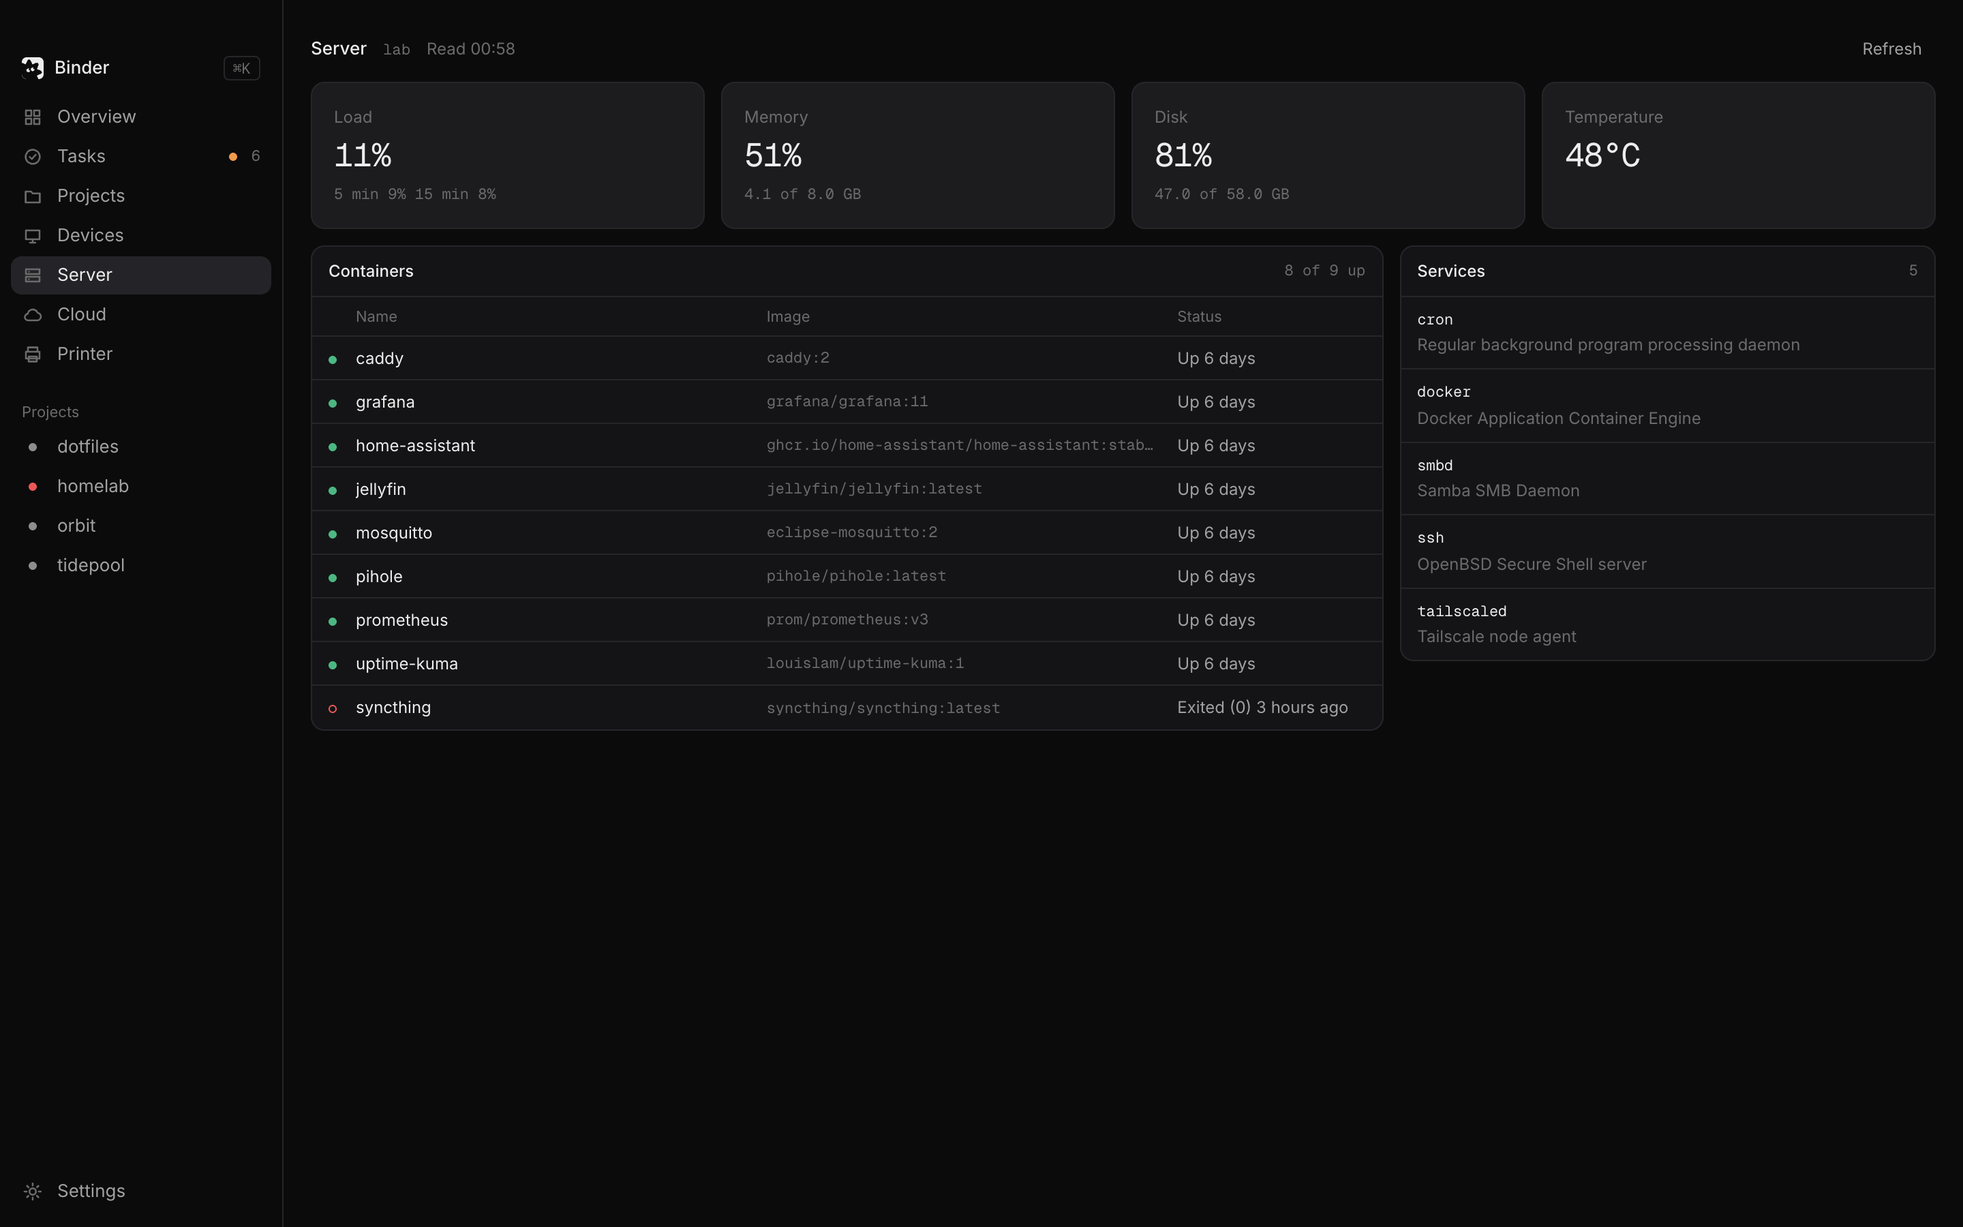
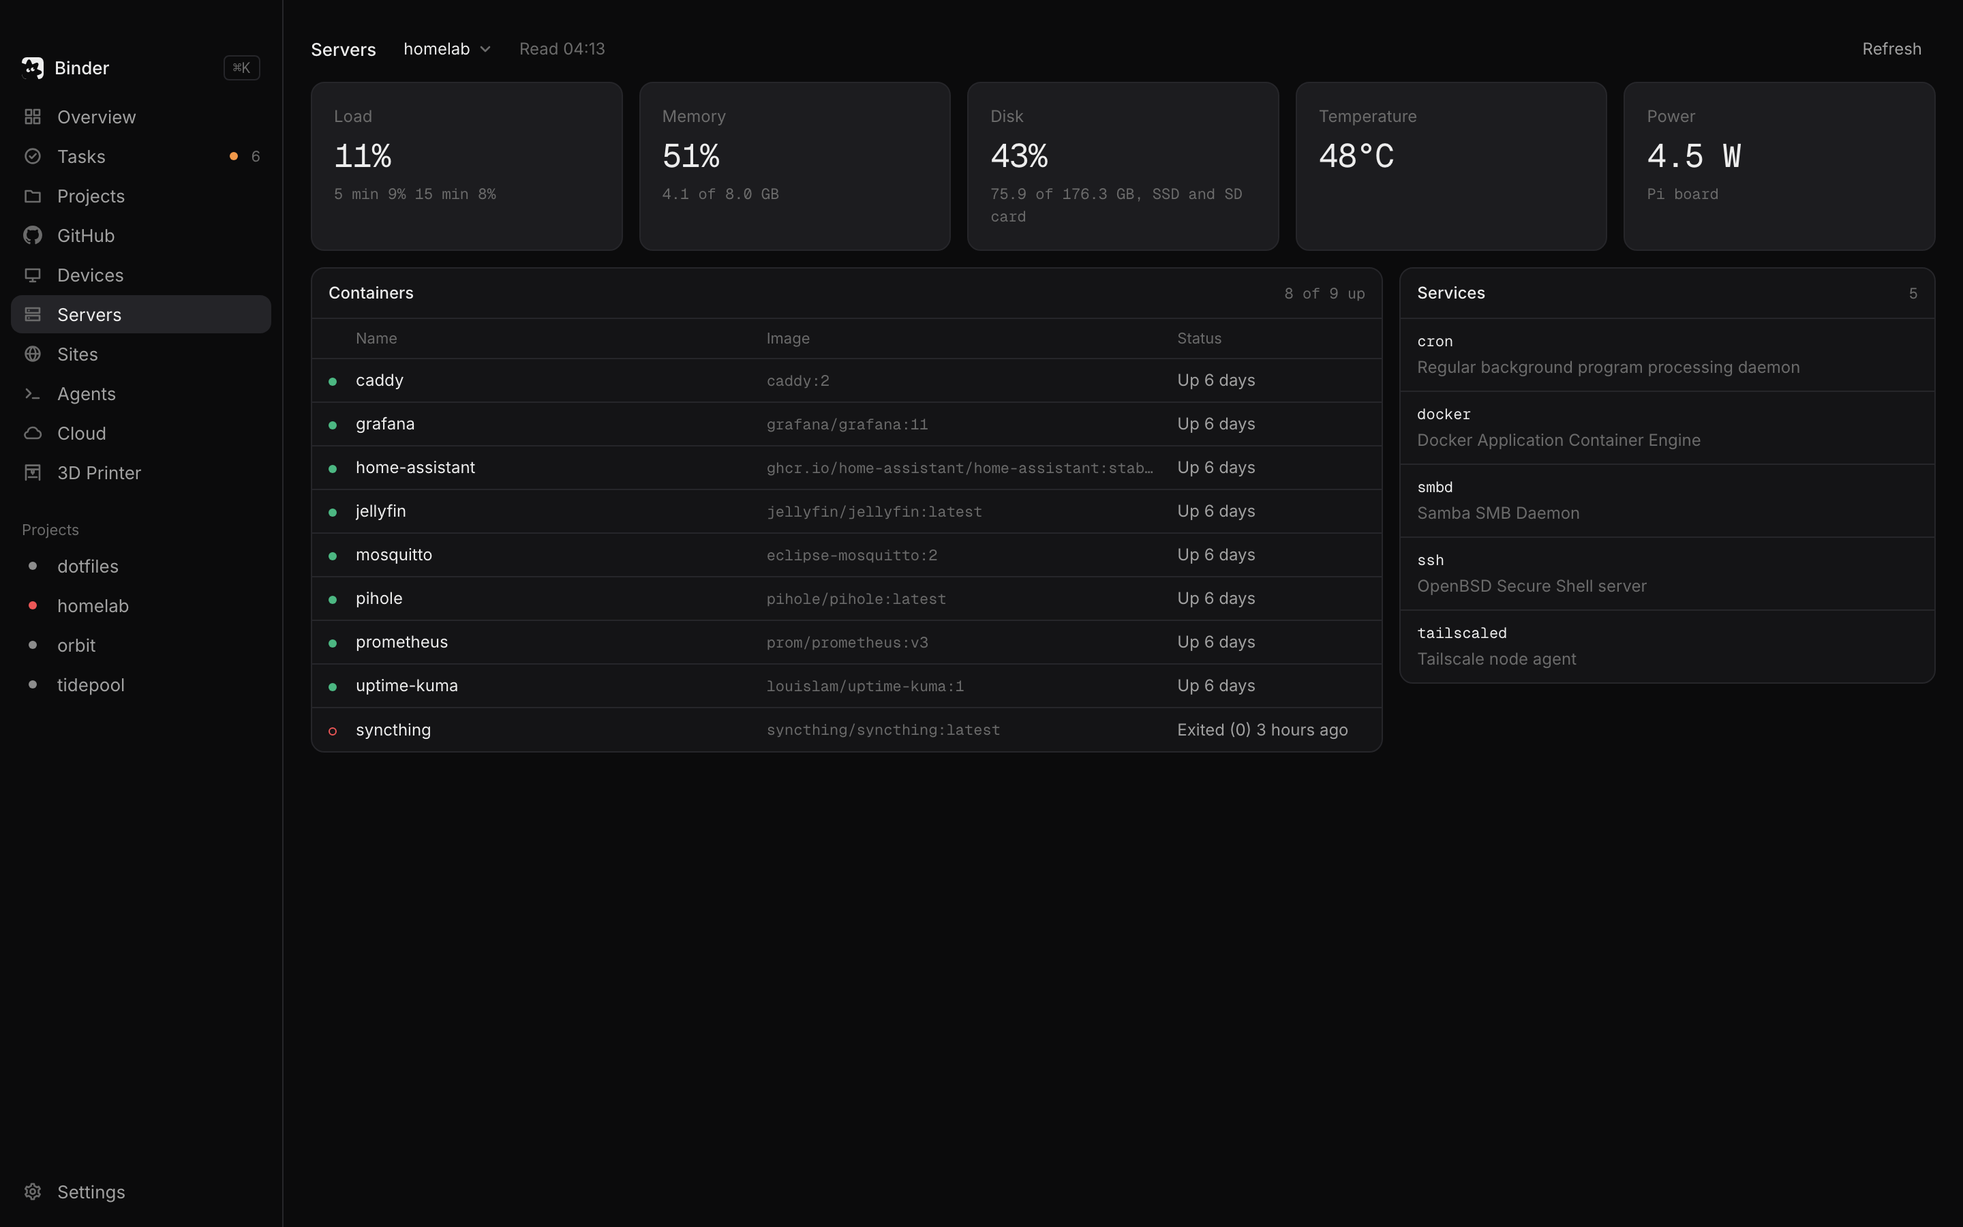
site: copy and screenshots for 3.9: nine screens, Agents, Sites, Devices with Tailscale, Servers

diff --git a/site/index.html b/site/index.html
@@ -4,7 +4,7 @@
 <meta charset="utf-8">
 <meta name="viewport" content="width=device-width, initial-scale=1">
 <title>Binder</title>
-<meta name="description" content="A desktop app for one developer's workshop: tasks for you and a Claude Code agent, your GitHub projects, the home server, a file manager over it and a 3D printer.">
+<meta name="description" content="A desktop app for one developer's workshop: tasks for you and a Claude Code agent, your GitHub projects and pull requests, your servers and the sites on them, agent terminals, your tailnet, a file manager over the server and a 3D printer.">
 <meta name="theme-color" content="#0b0b0c">
 <meta property="og:title" content="Binder">
 <meta property="og:description" content="Your whole workshop, in one quiet window.">
@@ -46,7 +46,7 @@ a:focus-visible{outline:1px solid #a1a1a1;outline-offset:3px;border-radius:8px}
 <section id="top" style="position: relative; max-width: 1200px; margin: 0 auto; padding: 72px 20px 0; display: flex; flex-direction: column; align-items: center; gap: 24px; text-align: center;">
 <a href="https://github.com/Kungie/binder/releases/tag/v3.9.0" style="display: inline-flex; align-items: center; gap: 8px; height: 28px; padding: 0 12px; border-radius: 999px; border: 1px solid #26262a; background: #141416; font-size: 12px; color: #a1a1a1;"><span style="width: 6px; height: 6px; border-radius: 999px; background: #8b7cf6; display: inline-block;"></span>3.9 is out: switch servers from the Servers header</a>
 <h1 class="hero-h" style="margin: 0; max-width: 880px; font-size: 76px; line-height: 76px; font-weight: 500; letter-spacing: -0.035em; text-wrap: balance;">Your whole workshop, in one quiet window.</h1>
-<p style="margin: 0; max-width: 600px; font-size: 17px; line-height: 26px; color: #a1a1a1; text-wrap: balance;">Tasks for you and a Claude Code agent, every GitHub repo, the home server, a file manager over it and the 3D printer. Mostly black and white, keyboard first, built for one person.</p>
+<p style="margin: 0; max-width: 600px; font-size: 17px; line-height: 26px; color: #a1a1a1; text-wrap: balance;">Tasks for you and a Claude Code agent, your GitHub repos and pull requests, your servers and the sites on them, agent terminals, your tailnet, a file manager and the 3D printer. Mostly black and white, keyboard first, built for one person.</p>
 <div style="display: flex; gap: 10px; flex-wrap: wrap; justify-content: center; padding-top: 8px;">
 <a href="https://github.com/Kungie/binder/releases/latest/download/Binder.dmg" style="display: inline-flex; align-items: center; gap: 8px; height: 44px; padding: 0 18px; border-radius: 10px; background: #ededed; color: #0b0b0c; font-weight: 500; font-size: 14px;"><svg width="14" height="14" viewBox="0 0 14 14" fill="none" stroke="currentColor" stroke-width="1.5" stroke-linecap="round" stroke-linejoin="round" aria-hidden="true"><path d="M7 1.5v8M3.5 6.5L7 10l3.5-3.5M2 12.5h10"></path></svg>Download for Mac</a>
 <a href="https://github.com/Kungie/binder" style="display: inline-flex; align-items: center; gap: 8px; height: 44px; padding: 0 18px; border-radius: 10px; border: 1px solid #34343a; color: #ededed; font-size: 14px;">View on GitHub</a>
@@ -56,7 +56,7 @@ a:focus-visible{outline:1px solid #a1a1a1;outline-offset:3px;border-radius:8px}
 <div style="position: relative; width: 100%; margin-top: 48px;">
 <img src="assets/mascot.svg" alt="" aria-hidden="true" class="hide-sm" style="position: absolute; left: -150px; bottom: -2px; width: 300px; z-index: 0;">
 <figure style="position: relative; z-index: 1; margin: 0; border-radius: 14px; border: 1px solid #34343a; background: #141416; padding: 6px; box-shadow: 0 40px 120px rgba(0,0,0,0.7);">
-<img width="2000" height="1250" src="assets/shots/overview.png" alt="Binder's Overview: today's done lines, open tasks, the server, Cloud and the printer" style="display: block; width: 100%; height: auto; border-radius: 10px;">
+<img width="2000" height="1250" src="assets/shots/overview.png" alt="Binder's Overview: what happened since you last looked, today's done lines, open tasks, the server, Cloud and the printer, in widgets you arrange" style="display: block; width: 100%; height: auto; border-radius: 10px;">
 </figure>
 </div>
 </section>
@@ -74,29 +74,57 @@ a:focus-visible{outline:1px solid #a1a1a1;outline-offset:3px;border-radius:8px}
 <section id="features" style="max-width: 1200px; margin: 0 auto; padding: 140px 20px 0; display: flex; flex-direction: column; gap: 40px;">
 <div style="display: flex; flex-direction: column; gap: 12px; max-width: 640px;">
 <p style="margin: 0; font-family: 'Geist Mono', ui-monospace, monospace; font-size: 12px; color: #8a8a8a;">What it does</p>
-<h2 class="big-h" style="margin: 0; font-size: 44px; line-height: 48px; font-weight: 500; letter-spacing: -0.03em; text-wrap: balance;">Six screens for the things you keep checking.</h2>
+<h2 class="big-h" style="margin: 0; font-size: 44px; line-height: 48px; font-weight: 500; letter-spacing: -0.03em; text-wrap: balance;">Nine screens for the things you keep checking.</h2>
 </div>
 <div style="display: grid; grid-template-columns: repeat(auto-fit, minmax(300px, 1fr)); gap: 12px;">
 
 <article style="display: flex; flex-direction: column; gap: 10px; padding: 20px; border-radius: 10px; border: 1px solid #26262a; background: #141416;">
 <svg width="16" height="16" viewBox="0 0 16 16" fill="none" stroke="#ededed" stroke-width="1.3" stroke-linecap="round" stroke-linejoin="round" aria-hidden="true"><circle cx="8" cy="8" r="6"></circle><path d="M5.5 8.2l1.7 1.7 3.3-3.6"></path></svg>
 <h3 style="margin: 0; font-size: 15px; font-weight: 500;">Tasks</h3>
-<p style="margin: 0; font-size: 13px; line-height: 20px; color: #a1a1a1;">A board of soft cards or a keyboard-first table. Claude Code on your server picks up its tasks by itself, and night tasks run there from 03:00.</p>
-<p style="margin: 0; font-family: 'Geist Mono', ui-monospace, monospace; font-size: 11px; color: #8a8a8a;">Tonight · runs at 03:00</p>
+<p style="margin: 0; font-size: 13px; line-height: 20px; color: #a1a1a1;">A board of soft cards or a keyboard-first table, with repeats, reminders and quick add from anywhere. Claude Code on your server picks up its tasks by itself, and night tasks run from 03:00.</p>
+<p style="margin: 0; font-family: 'Geist Mono', ui-monospace, monospace; font-size: 11px; color: #8a8a8a;">⌃⌥N · tomorrow 9am #homelab</p>
 </article>
 
 <article style="display: flex; flex-direction: column; gap: 10px; padding: 20px; border-radius: 10px; border: 1px solid #26262a; background: #141416;">
 <svg width="16" height="16" viewBox="0 0 16 16" fill="none" stroke="#ededed" stroke-width="1.3" stroke-linecap="round" stroke-linejoin="round" aria-hidden="true"><path d="M2 4.5h4l1.5 1.5H14v6.5H2z"></path></svg>
 <h3 style="margin: 0; font-size: 15px; font-weight: 500;">Projects</h3>
-<p style="margin: 0; font-size: 13px; line-height: 20px; color: #a1a1a1;">Every GitHub repo arrives on its own. Your edits stay, nothing is deleted, and each project keeps a note in Obsidian.</p>
+<p style="margin: 0; font-size: 13px; line-height: 20px; color: #a1a1a1;">Every GitHub repo arrives on its own with its open pull requests and CI. Your edits stay, nothing is deleted, and each project keeps a note in Obsidian.</p>
 <p style="margin: 0; font-family: 'Geist Mono', ui-monospace, monospace; font-size: 11px; color: #8a8a8a;">gh repo list</p>
 </article>
 
 <article style="display: flex; flex-direction: column; gap: 10px; padding: 20px; border-radius: 10px; border: 1px solid #26262a; background: #141416;">
-<svg width="16" height="16" viewBox="0 0 16 16" fill="none" stroke="#ededed" stroke-width="1.3" stroke-linecap="round" stroke-linejoin="round" aria-hidden="true"><path d="M8 2v12M2 8h12M3.8 3.8l8.4 8.4M12.2 3.8l-8.4 8.4"></path></svg>
-<h3 style="margin: 0; font-size: 15px; font-weight: 500;">Claude Code</h3>
-<p style="margin: 0; font-size: 13px; line-height: 20px; color: #a1a1a1;">Hooks write the decisions each session makes to the project's daily file. Agents keeps Claude Code and a local model open on your server.</p>
-<p style="margin: 0; font-family: 'Geist Mono', ui-monospace, monospace; font-size: 11px; color: #8a8a8a;">Daily/2026-11-14.md</p>
+<svg width="16" height="16" viewBox="0 0 16 16" fill="none" stroke="#ededed" stroke-width="1.3" stroke-linecap="round" stroke-linejoin="round" aria-hidden="true"><circle cx="4.5" cy="4" r="1.5"></circle><circle cx="4.5" cy="12" r="1.5"></circle><circle cx="11.5" cy="12" r="1.5"></circle><path d="M4.5 5.5v5M11.5 10.5V7.5a2 2 0 0 0-2-2H7"></path></svg>
+<h3 style="margin: 0; font-size: 15px; font-weight: 500;">GitHub</h3>
+<p style="margin: 0; font-size: 13px; line-height: 20px; color: #a1a1a1;">Pull requests and issues across your projects. Review, merge and comment, or hand one to the agent to review, fix or work on.</p>
+<p style="margin: 0; font-family: 'Geist Mono', ui-monospace, monospace; font-size: 11px; color: #8a8a8a;">Review with the agent</p>
+</article>
+
+<article style="display: flex; flex-direction: column; gap: 10px; padding: 20px; border-radius: 10px; border: 1px solid #26262a; background: #141416;">
+<svg width="16" height="16" viewBox="0 0 16 16" fill="none" stroke="#ededed" stroke-width="1.3" stroke-linecap="round" stroke-linejoin="round" aria-hidden="true"><path d="M3 4.5l3 3.5-3 3.5M8 12h5"></path></svg>
+<h3 style="margin: 0; font-size: 15px; font-weight: 500;">Agents</h3>
+<p style="margin: 0; font-size: 13px; line-height: 20px; color: #a1a1a1;">Claude Code and a local model in terminals on your server, one session per project, like a small herdr. Each shows whether it works, waits for you or stopped, and notifies you when it does.</p>
+<p style="margin: 0; font-family: 'Geist Mono', ui-monospace, monospace; font-size: 11px; color: #8a8a8a;">5 h 34% · week 61%</p>
+</article>
+
+<article style="display: flex; flex-direction: column; gap: 10px; padding: 20px; border-radius: 10px; border: 1px solid #26262a; background: #141416;">
+<svg width="16" height="16" viewBox="0 0 16 16" fill="none" stroke="#ededed" stroke-width="1.3" stroke-linecap="round" stroke-linejoin="round" aria-hidden="true"><rect x="2.5" y="3" width="11" height="4" rx="1"></rect><rect x="2.5" y="9" width="11" height="4" rx="1"></rect><path d="M5 5h.01M5 11h.01"></path></svg>
+<h3 style="margin: 0; font-size: 15px; font-weight: 500;">Servers</h3>
+<p style="margin: 0; font-size: 13px; line-height: 20px; color: #a1a1a1;">Containers, services, load, memory, disks, temperature and power over SSH, with logs and restarts. Switch between servers from the header, and get a notification when a container stops.</p>
+<p style="margin: 0; font-family: 'Geist Mono', ui-monospace, monospace; font-size: 11px; color: #8a8a8a;">web stopped · Exited (137)</p>
+</article>
+
+<article style="display: flex; flex-direction: column; gap: 10px; padding: 20px; border-radius: 10px; border: 1px solid #26262a; background: #141416;">
+<svg width="16" height="16" viewBox="0 0 16 16" fill="none" stroke="#ededed" stroke-width="1.3" stroke-linecap="round" stroke-linejoin="round" aria-hidden="true"><circle cx="8" cy="8" r="6"></circle><path d="M2 8h12M8 2c1.8 1.7 2.7 3.7 2.7 6S9.8 12.3 8 14M8 2C6.2 3.7 5.3 5.7 5.3 8s.9 4.3 2.7 6"></path></svg>
+<h3 style="margin: 0; font-size: 15px; font-weight: 500;">Sites</h3>
+<p style="margin: 0; font-size: 13px; line-height: 20px; color: #a1a1a1;">Every site on your server found by itself, with a still preview, its address and a week of uptime. You hear about it when one goes down.</p>
+<p style="margin: 0; font-family: 'Geist Mono', ui-monospace, monospace; font-size: 11px; color: #8a8a8a;">28 bars · 99.6% up</p>
+</article>
+
+<article style="display: flex; flex-direction: column; gap: 10px; padding: 20px; border-radius: 10px; border: 1px solid #26262a; background: #141416;">
+<svg width="16" height="16" viewBox="0 0 16 16" fill="none" stroke="#ededed" stroke-width="1.3" stroke-linecap="round" stroke-linejoin="round" aria-hidden="true"><rect x="2" y="3" width="12" height="8" rx="1"></rect><path d="M6 13.5h4M8 11v2.5"></path></svg>
+<h3 style="margin: 0; font-size: 15px; font-weight: 500;">Devices</h3>
+<p style="margin: 0; font-size: 13px; line-height: 20px; color: #a1a1a1;">Your tailnet from the Tailscale app: who is online, the route and ping, keys about to expire, Taildrop and an SSH shell. Plus any machine you add yourself.</p>
+<p style="margin: 0; font-family: 'Geist Mono', ui-monospace, monospace; font-size: 11px; color: #8a8a8a;">31 ms · DERP fra</p>
 </article>
 
 <article style="display: flex; flex-direction: column; gap: 10px; padding: 20px; border-radius: 10px; border: 1px solid #26262a; background: #141416;">
@@ -107,16 +135,9 @@ a:focus-visible{outline:1px solid #a1a1a1;outline-offset:3px;border-radius:8px}
 </article>
 
 <article style="display: flex; flex-direction: column; gap: 10px; padding: 20px; border-radius: 10px; border: 1px solid #26262a; background: #141416;">
-<svg width="16" height="16" viewBox="0 0 16 16" fill="none" stroke="#ededed" stroke-width="1.3" stroke-linecap="round" stroke-linejoin="round" aria-hidden="true"><rect x="2.5" y="3" width="11" height="4" rx="1"></rect><rect x="2.5" y="9" width="11" height="4" rx="1"></rect><path d="M5 5h.01M5 11h.01"></path></svg>
-<h3 style="margin: 0; font-size: 15px; font-weight: 500;">Server</h3>
-<p style="margin: 0; font-size: 13px; line-height: 20px; color: #a1a1a1;">Containers, services, load, memory, both disks and temperature over SSH. A Mac notification when a container stops or turns unhealthy.</p>
-<p style="margin: 0; font-family: 'Geist Mono', ui-monospace, monospace; font-size: 11px; color: #8a8a8a;">web stopped · Exited (137)</p>
-</article>
-
-<article style="display: flex; flex-direction: column; gap: 10px; padding: 20px; border-radius: 10px; border: 1px solid #26262a; background: #141416;">
 <svg width="16" height="16" viewBox="0 0 16 16" fill="none" stroke="#ededed" stroke-width="1.3" stroke-linecap="round" stroke-linejoin="round" aria-hidden="true"><path d="M4.5 6V2.5h7V6M4.5 11.5H3A1 1 0 0 1 2 10.5V7a1 1 0 0 1 1-1h10a1 1 0 0 1 1 1v3.5a1 1 0 0 1-1 1h-1.5"></path><rect x="4.5" y="9.5" width="7" height="4"></rect></svg>
-<h3 style="margin: 0; font-size: 15px; font-weight: 500;">Printer and devices</h3>
-<p style="margin: 0; font-size: 13px; line-height: 20px; color: #a1a1a1;">A Bambu Lab printer in LAN mode with its job, progress and temperatures, and every machine you own with a dot for whether it answers.</p>
+<h3 style="margin: 0; font-size: 15px; font-weight: 500;">3D Printer</h3>
+<p style="margin: 0; font-size: 13px; line-height: 20px; color: #a1a1a1;">A Bambu Lab printer in LAN mode: job, progress, temperatures, the camera, the light and the fan, every print that ended and health messages in plain words.</p>
 <p style="margin: 0; font-family: 'Geist Mono', ui-monospace, monospace; font-size: 11px; color: #8a8a8a;">case-lid · 42% · 1 h 13 min left</p>
 </article>
 
@@ -136,13 +157,24 @@ a:focus-visible{outline:1px solid #a1a1a1;outline-offset:3px;border-radius:8px}
 
 <section style="max-width: 1200px; margin: 0 auto; padding: 120px 20px 0; display: flex; flex-wrap: wrap-reverse; gap: 48px; align-items: center;">
 <figure style="flex: 2 1 560px; min-width: 0; margin: 0; border-radius: 14px; border: 1px solid #34343a; background: #141416; padding: 6px;">
-<img loading="lazy" width="2880" height="1800" src="assets/shots/server.png" alt="The Server screen with load, memory, disk, temperature, containers and services" style="display: block; width: 100%; height: auto; border-radius: 10px;">
+<img loading="lazy" width="2880" height="1800" src="assets/shots/server.png" alt="The Servers screen with load, memory, disk, temperature, power, containers and services" style="display: block; width: 100%; height: auto; border-radius: 10px;">
 </figure>
 <div style="flex: 1 1 320px; min-width: 0; display: flex; flex-direction: column; gap: 16px;">
-<p style="margin: 0; font-family: 'Geist Mono', ui-monospace, monospace; font-size: 12px; color: #8a8a8a;">The home server</p>
+<p style="margin: 0; font-family: 'Geist Mono', ui-monospace, monospace; font-size: 12px; color: #8a8a8a;">Your servers</p>
 <h2 class="big-h" style="margin: 0; font-size: 36px; line-height: 40px; font-weight: 500; letter-spacing: -0.03em; text-wrap: balance;">Know it's fine without opening a terminal.</h2>
-<p style="margin: 0; font-size: 15px; line-height: 24px; color: #a1a1a1;">Binder reads your server over plain SSH with your own keys. A green dot means up, a hollow red ring means down. It never stores a password and never touches <span style="font-family: 'Geist Mono', ui-monospace, monospace; font-size: 13px; color: #ededed;">~/.ssh</span>.</p>
+<p style="margin: 0; font-size: 15px; line-height: 24px; color: #a1a1a1;">Binder reads your servers over plain SSH with your own keys, and you switch between them from the header. A green dot means up, a hollow red ring means down, and a notification comes when a container stops, a disk fills up or the server restarts. It never stores a password and never touches <span style="font-family: 'Geist Mono', ui-monospace, monospace; font-size: 13px; color: #ededed;">~/.ssh</span>.</p>
 </div>
+</section>
+
+<section style="max-width: 1200px; margin: 0 auto; padding: 120px 20px 0; display: flex; flex-wrap: wrap; gap: 48px; align-items: center;">
+<div style="flex: 1 1 320px; min-width: 0; display: flex; flex-direction: column; gap: 16px;">
+<p style="margin: 0; font-family: 'Geist Mono', ui-monospace, monospace; font-size: 12px; color: #8a8a8a;">Your tailnet</p>
+<h2 class="big-h" style="margin: 0; font-size: 36px; line-height: 40px; font-weight: 500; letter-spacing: -0.03em; text-wrap: balance;">Every device, without the admin page.</h2>
+<p style="margin: 0; font-size: 15px; line-height: 24px; color: #a1a1a1;">Binder asks the Tailscale app on your Mac, so there is no login and no API key. You see which devices are online, whether traffic goes direct or through a relay, a day of pings and keys about to expire. Send a file with Taildrop or open a shell in one click.</p>
+</div>
+<figure style="flex: 2 1 560px; min-width: 0; margin: 0; border-radius: 14px; border: 1px solid #34343a; background: #141416; padding: 6px;">
+<img loading="lazy" width="2880" height="1800" src="assets/shots/devices.png" alt="The Devices screen with the tailnet: each device's system, address, status, ping and route" style="display: block; width: 100%; height: auto; border-radius: 10px;">
+</figure>
 </section>
 
 <section id="principles" style="max-width: 1200px; margin: 0 auto; padding: 140px 20px 0; display: grid; grid-template-columns: repeat(auto-fit, minmax(300px, 1fr)); gap: 40px 48px;">
@@ -163,8 +195,8 @@ a:focus-visible{outline:1px solid #a1a1a1;outline-offset:3px;border-radius:8px}
 </div>
 <div style="display: flex; flex-direction: column; gap: 12px; border-top: 1px solid #26262a; padding-top: 24px;">
 <h3 style="margin: 0; font-size: 15px; font-weight: 500;">Small and fast</h3>
-<p style="margin: 0; font-size: 13px; line-height: 20px; color: #a1a1a1;">A Rust core in a Tauri window, using the system's own web view. The whole app is 14 MB, and it updates itself from Settings.</p>
-<p style="margin: 0; font-family: 'Geist Mono', ui-monospace, monospace; font-size: 11px; color: #8a8a8a;">Binder.dmg · 7.1 MB</p>
+<p style="margin: 0; font-size: 13px; line-height: 20px; color: #a1a1a1;">A Rust core in a Tauri window, using the system's own web view. The whole app is 14 MB, and it updates itself from Settings. A menu bar icon shows only while a task is in progress, with a pomodoro beside it.</p>
+<p style="margin: 0; font-family: 'Geist Mono', ui-monospace, monospace; font-size: 11px; color: #8a8a8a;">Binder.dmg · 8.1 MB</p>
 </div>
 </section>
 
